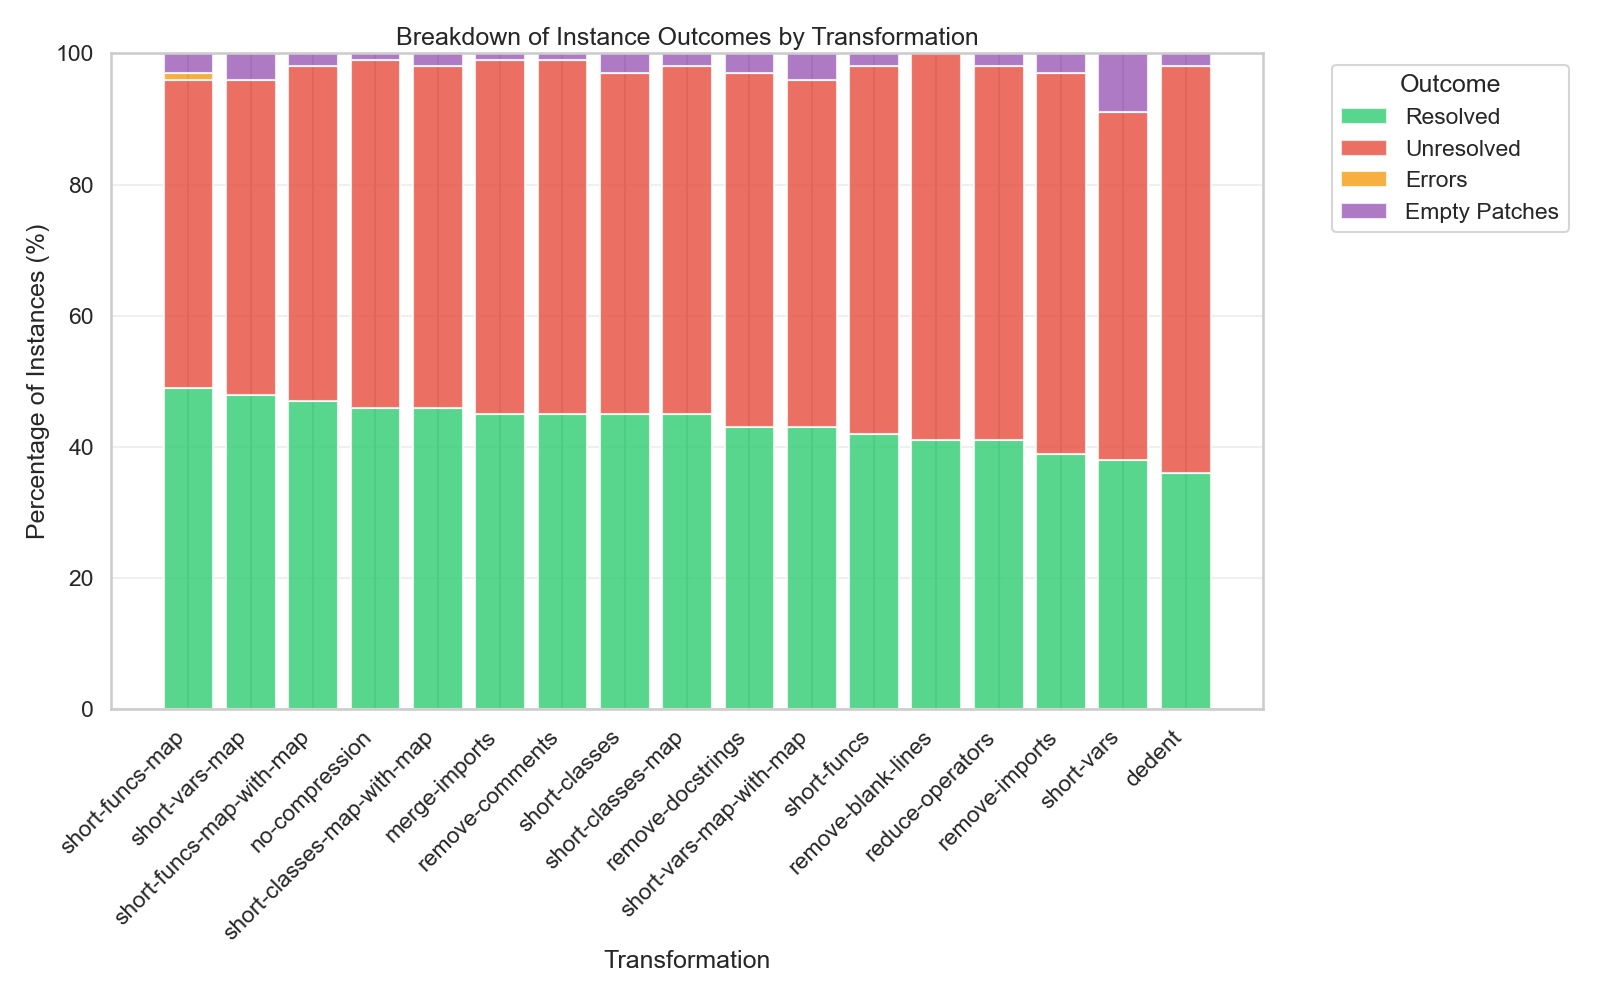
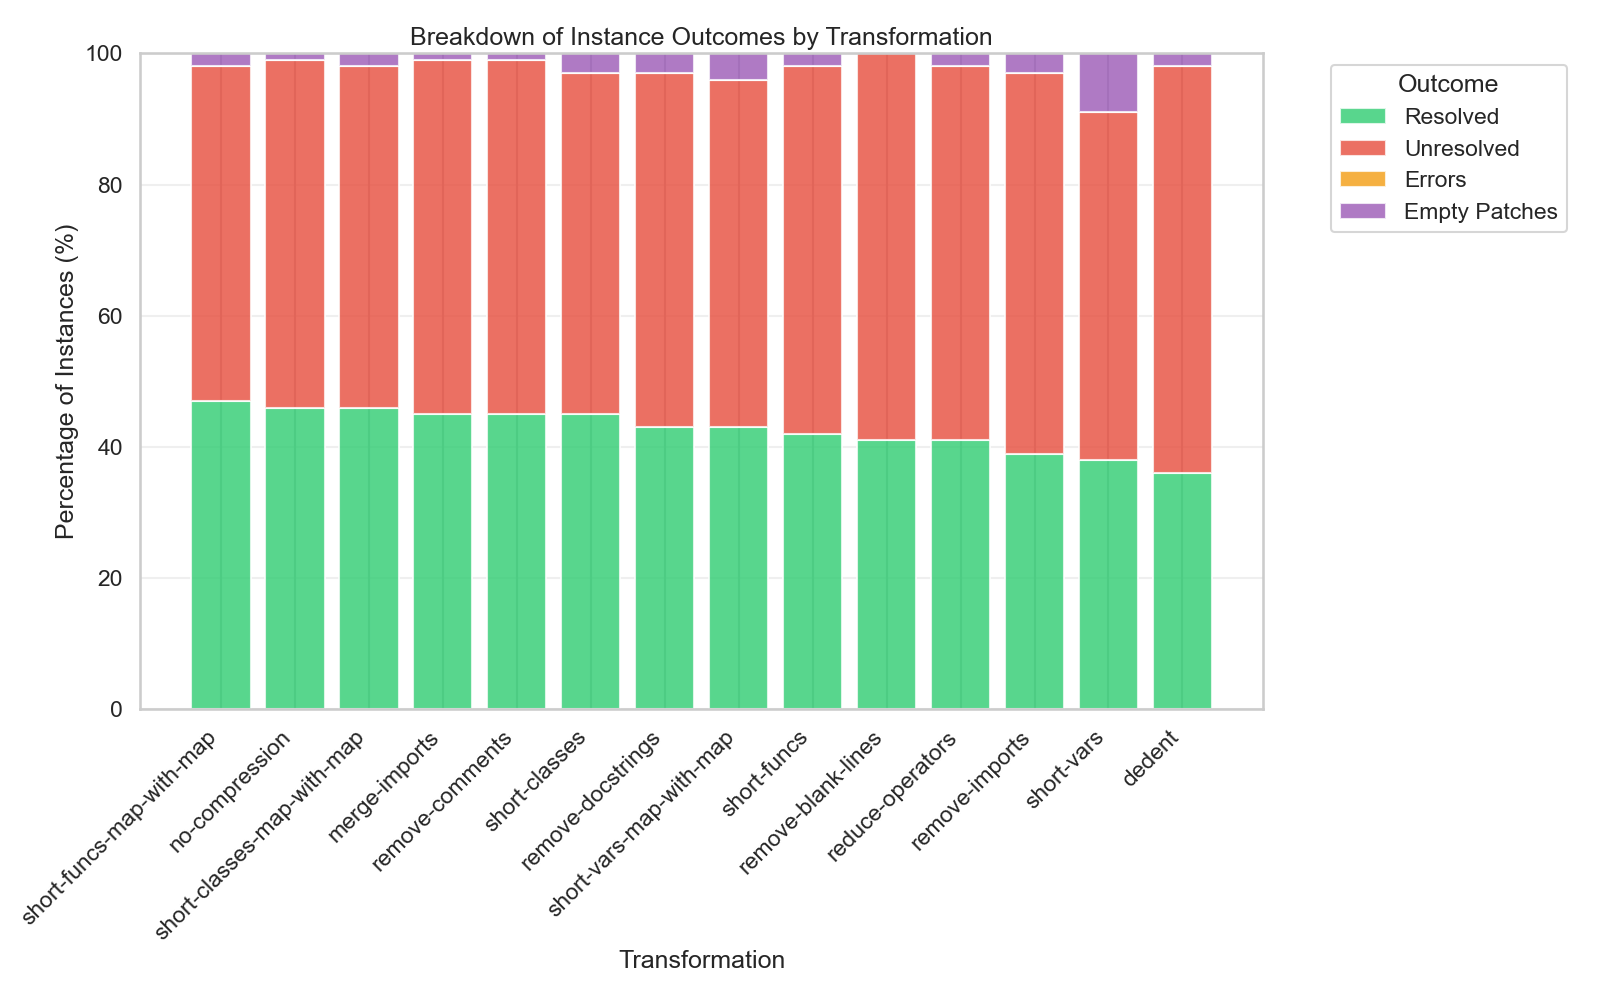
Separate obfuscation ablation plot + update individual plots

Changed region(s): [[0.0, 0.031, 0.75, 0.992], [0.875, 0.062, 1.0, 0.217], [0.0, 0.899, 0.0312, 0.93]]

diff --git a/analysis/individual_transforms.py b/analysis/individual_transforms.py
@@ -39,7 +39,11 @@ for eval_transform, metric_transform in zip(
 input_dollar_cost_per_token = 2.0 / 1e6
 output_dollar_cost_per_token = 8.0 / 1e6
 
+excluded_transformations = ["short-vars-map", "short-funcs-map", "short-classes-map"]
+
 results_data = []
+individual_results_data = []
+obfuscation_ablation_data = []
 
 for eval_transform, metric_transform in zip(
     eval_transform_names, metrics_transform_names
@@ -57,24 +61,35 @@ for eval_transform, metric_transform in zip(
     output_cost = avg_output_tokens * output_dollar_cost_per_token
     total_cost = input_cost + output_cost
 
-    results_data.append(
-        {
-            "transformation": eval_transform,
-            "resolved_percentage": resolved_percentage,
-            "resolved_count": resolved_instances,
-            "submitted_count": submitted_instances,
-            "avg_input_tokens": avg_input_tokens,
-            "avg_output_tokens": avg_output_tokens,
-            "input_cost": input_cost,
-            "output_cost": output_cost,
-            "total_cost": total_cost,
-        }
-    )
+    result_dict = {
+        "transformation": eval_transform,
+        "resolved_percentage": resolved_percentage,
+        "resolved_count": resolved_instances,
+        "submitted_count": submitted_instances,
+        "avg_input_tokens": avg_input_tokens,
+        "avg_output_tokens": avg_output_tokens,
+        "input_cost": input_cost,
+        "output_cost": output_cost,
+        "total_cost": total_cost,
+    }
+
+    results_data.append(result_dict)
+
+    # Separate data for different plots
+    if eval_transform not in excluded_transformations:
+        individual_results_data.append(result_dict)
+
+    # For obfuscation ablation: include transformations with and without map
+    if any(
+        transform in eval_transform
+        for transform in ["short-vars", "short-funcs", "short-classes"]
+    ):
+        obfuscation_ablation_data.append(result_dict)
 
 print("Individual Transformations Analysis")
 print("=" * 80)
 print(
-    f"{'Transformation':<35} {'Resolved %':<12} {'Resolved':<10} {'Input Tokens':<15} {'Output Tokens':<15} {'Per-instance Cost ($)':<15}"
+    f"{'Transformation':<35} {'Resolved %':<12} {'Resolved':<10} {'Input Tokens':<15} {'Output Tokens':<15} {'Per-Instance Cost ($)':<15}"
 )
 print("-" * 95)
 
@@ -86,7 +101,7 @@ for result in results_data:
 print("-" * 95)
 print()
 
-df_results = pd.DataFrame(results_data)
+df_results = pd.DataFrame(individual_results_data)
 
 # performance vs cost scatter plot
 plt.figure(figsize=(12, 8))
@@ -99,8 +114,8 @@ scatter = plt.scatter(
     cmap="viridis",
 )
 
+# label points
 for i, row in df_results.iterrows():
-    # labeling with some logic to make labels of close points not overlap
     has_close_point = False
     close_partner_index = None
     for j, other_row in df_results.iterrows():
@@ -131,7 +146,7 @@ for i, row in df_results.iterrows():
         alpha=0.8,
     )
 
-plt.xlabel("Per-instance Cost (USD)")
+plt.xlabel("Per-Instance Cost (USD)")
 plt.ylabel("Resolved Percentage (%)")
 plt.title("Performance vs Cost by Transformation")
 plt.grid(True, alpha=0.3)
@@ -203,7 +218,7 @@ for i, (input_cost, output_cost, total_cost) in enumerate(
     )
 
 plt.xlabel("Transformation")
-plt.ylabel("Per-instance Cost (USD)")
+plt.ylabel("Per-Instance Cost (USD)")
 plt.title("Input vs Output Costs by Transformation")
 plt.xticks(x_pos, df_results["transformation"], rotation=45, ha="right")
 plt.legend()
@@ -214,10 +229,10 @@ plt.show()
 # detailed performance breakdown for each transformation
 plt.figure(figsize=(16, 10))
 
-# Prepare data for stacked bar chart
 breakdown_data = []
-
 for eval_transform in eval_transform_names:
+    if eval_transform in excluded_transformations:
+        continue
     performance = performance_data[eval_transform]
     submitted_instances = performance["submitted_instances"]
 
@@ -243,14 +258,14 @@ for eval_transform in eval_transform_names:
 
 breakdown_data.sort(key=lambda x: x["resolved_percentage"], reverse=True)
 
-# Extract sorted data
+# extract sorted data
 transformations = [item["transformation"] for item in breakdown_data]
 resolved_percentages = [item["resolved_percentage"] for item in breakdown_data]
 unresolved_percentages = [item["unresolved_percentage"] for item in breakdown_data]
 error_percentages = [item["error_percentage"] for item in breakdown_data]
 empty_patch_percentages = [item["empty_patch_percentage"] for item in breakdown_data]
 
-# Create stacked bar chart
+# create stacked bar chart
 x_pos = range(len(transformations))
 
 bars1 = plt.bar(
@@ -293,6 +308,52 @@ plt.xticks(x_pos, transformations, rotation=45, ha="right")
 plt.legend(title="Outcome", bbox_to_anchor=(1.05, 1), loc="upper left")
 plt.ylim(0, 100)
 plt.grid(True, alpha=0.3, axis="y")
+plt.tight_layout()
+plt.show()
+
+# Obfuscation ablation plot
+plt.figure(figsize=(12, 8))
+df_obfuscation = pd.DataFrame(obfuscation_ablation_data)
+
+with_map = df_obfuscation[df_obfuscation["transformation"].str.contains("map-with-map")]
+without_map = df_obfuscation[
+    ~df_obfuscation["transformation"].str.contains("map-with-map")
+    & df_obfuscation["transformation"].str.contains("map")
+]
+
+plt.scatter(
+    with_map["total_cost"],
+    with_map["resolved_count"],
+    label="With in-context map",
+    s=100,
+    alpha=0.7,
+    color="blue",
+)
+plt.scatter(
+    without_map["total_cost"],
+    without_map["resolved_count"],
+    label="Without in-context map",
+    s=100,
+    alpha=0.7,
+    color="red",
+)
+
+# add labels
+for _, row in df_obfuscation.iterrows():
+    plt.annotate(
+        row["transformation"],
+        (row["total_cost"], row["resolved_count"]),
+        xytext=(5, 5),
+        textcoords="offset points",
+        fontsize=9,
+        alpha=0.8,
+    )
+
+plt.xlabel("Per-Instance Cost (USD)")
+plt.ylabel("Number of Resolved Instances")
+plt.title("Obfuscation with vs without in-context map")
+plt.legend()
+plt.grid(True, alpha=0.3)
 plt.tight_layout()
 plt.show()
 
